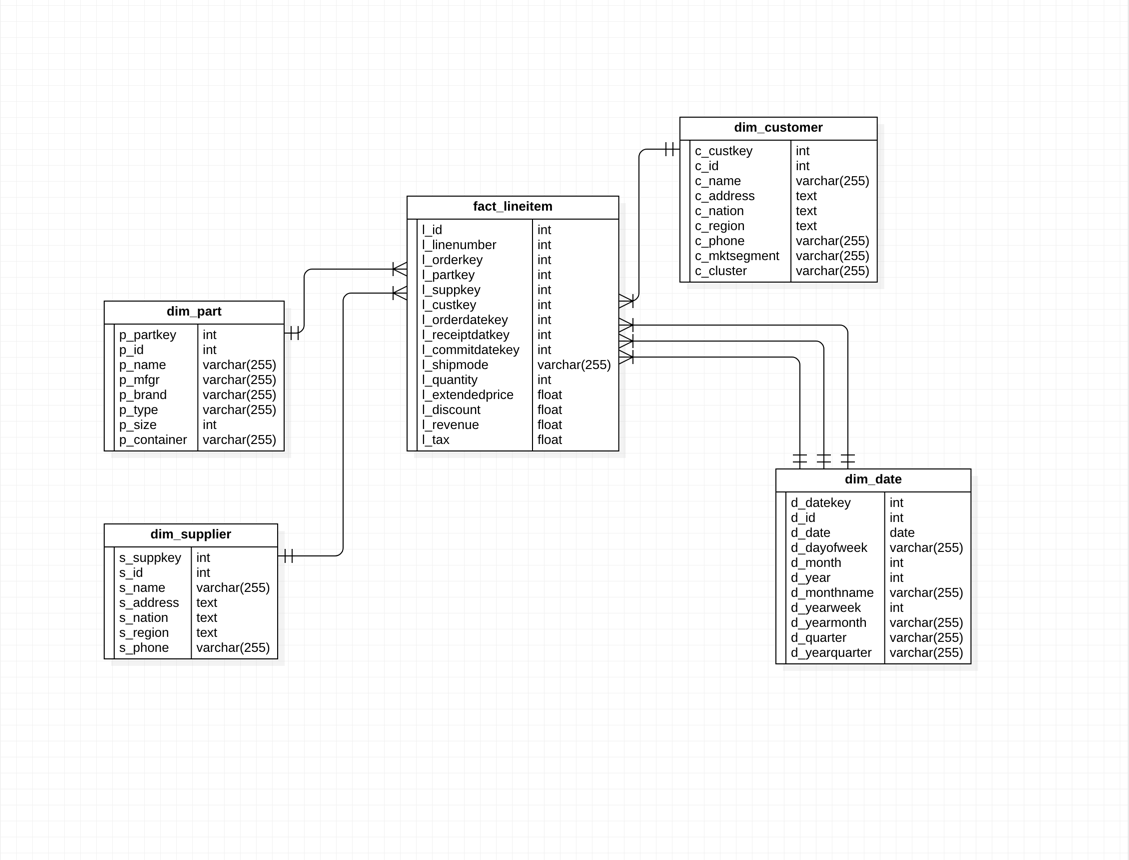
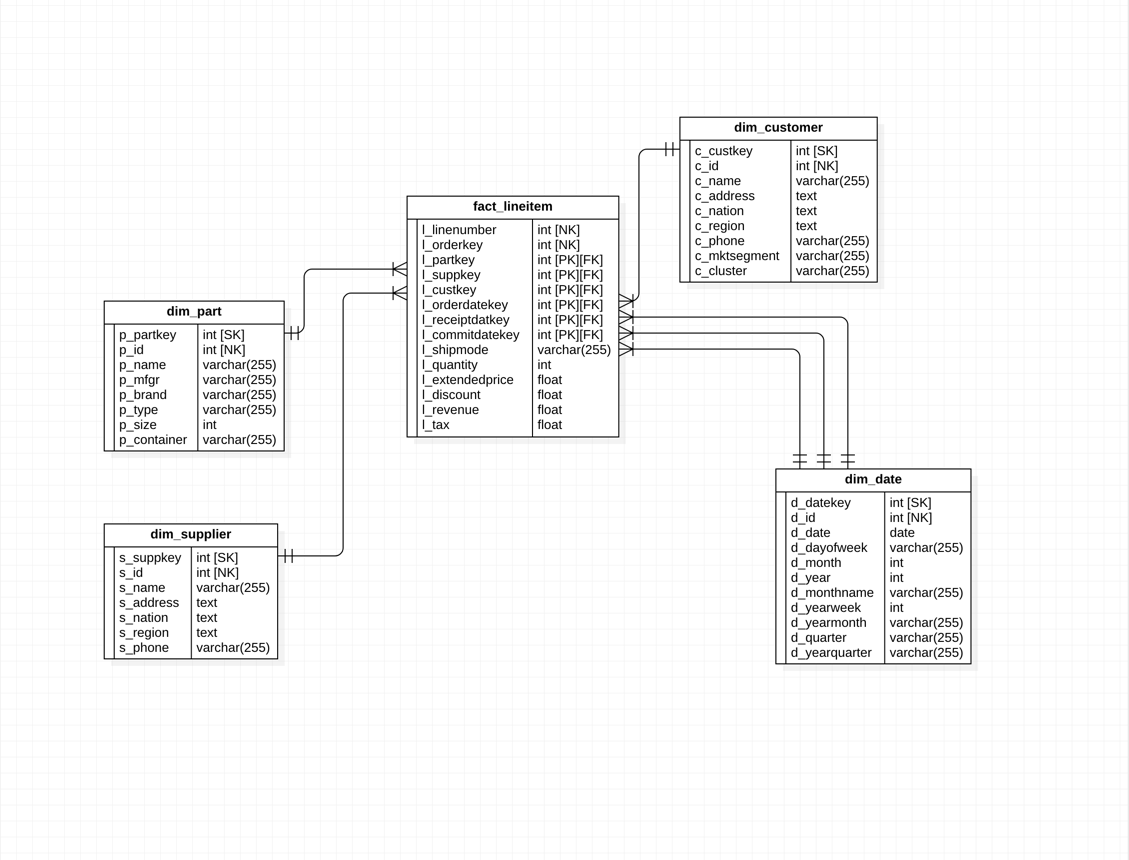
Added key notations for start schema for better readability

diff --git a/retail_etl/plugins/dw_queries/fact_lineitem.py b/retail_etl/plugins/dw_queries/fact_lineitem.py
@@ -28,7 +28,12 @@ def get_upsert_query():
         %s, %s, %s, %s, %s, %s
     )
     ON CONFLICT (
-        l_linenumber, l_orderkey
+        l_partkey,
+        l_suppkey,
+        l_custkey,
+        l_orderdatekey,
+        l_commitdatekey,
+        l_receiptdatekey
     )
     DO UPDATE SET
         (
